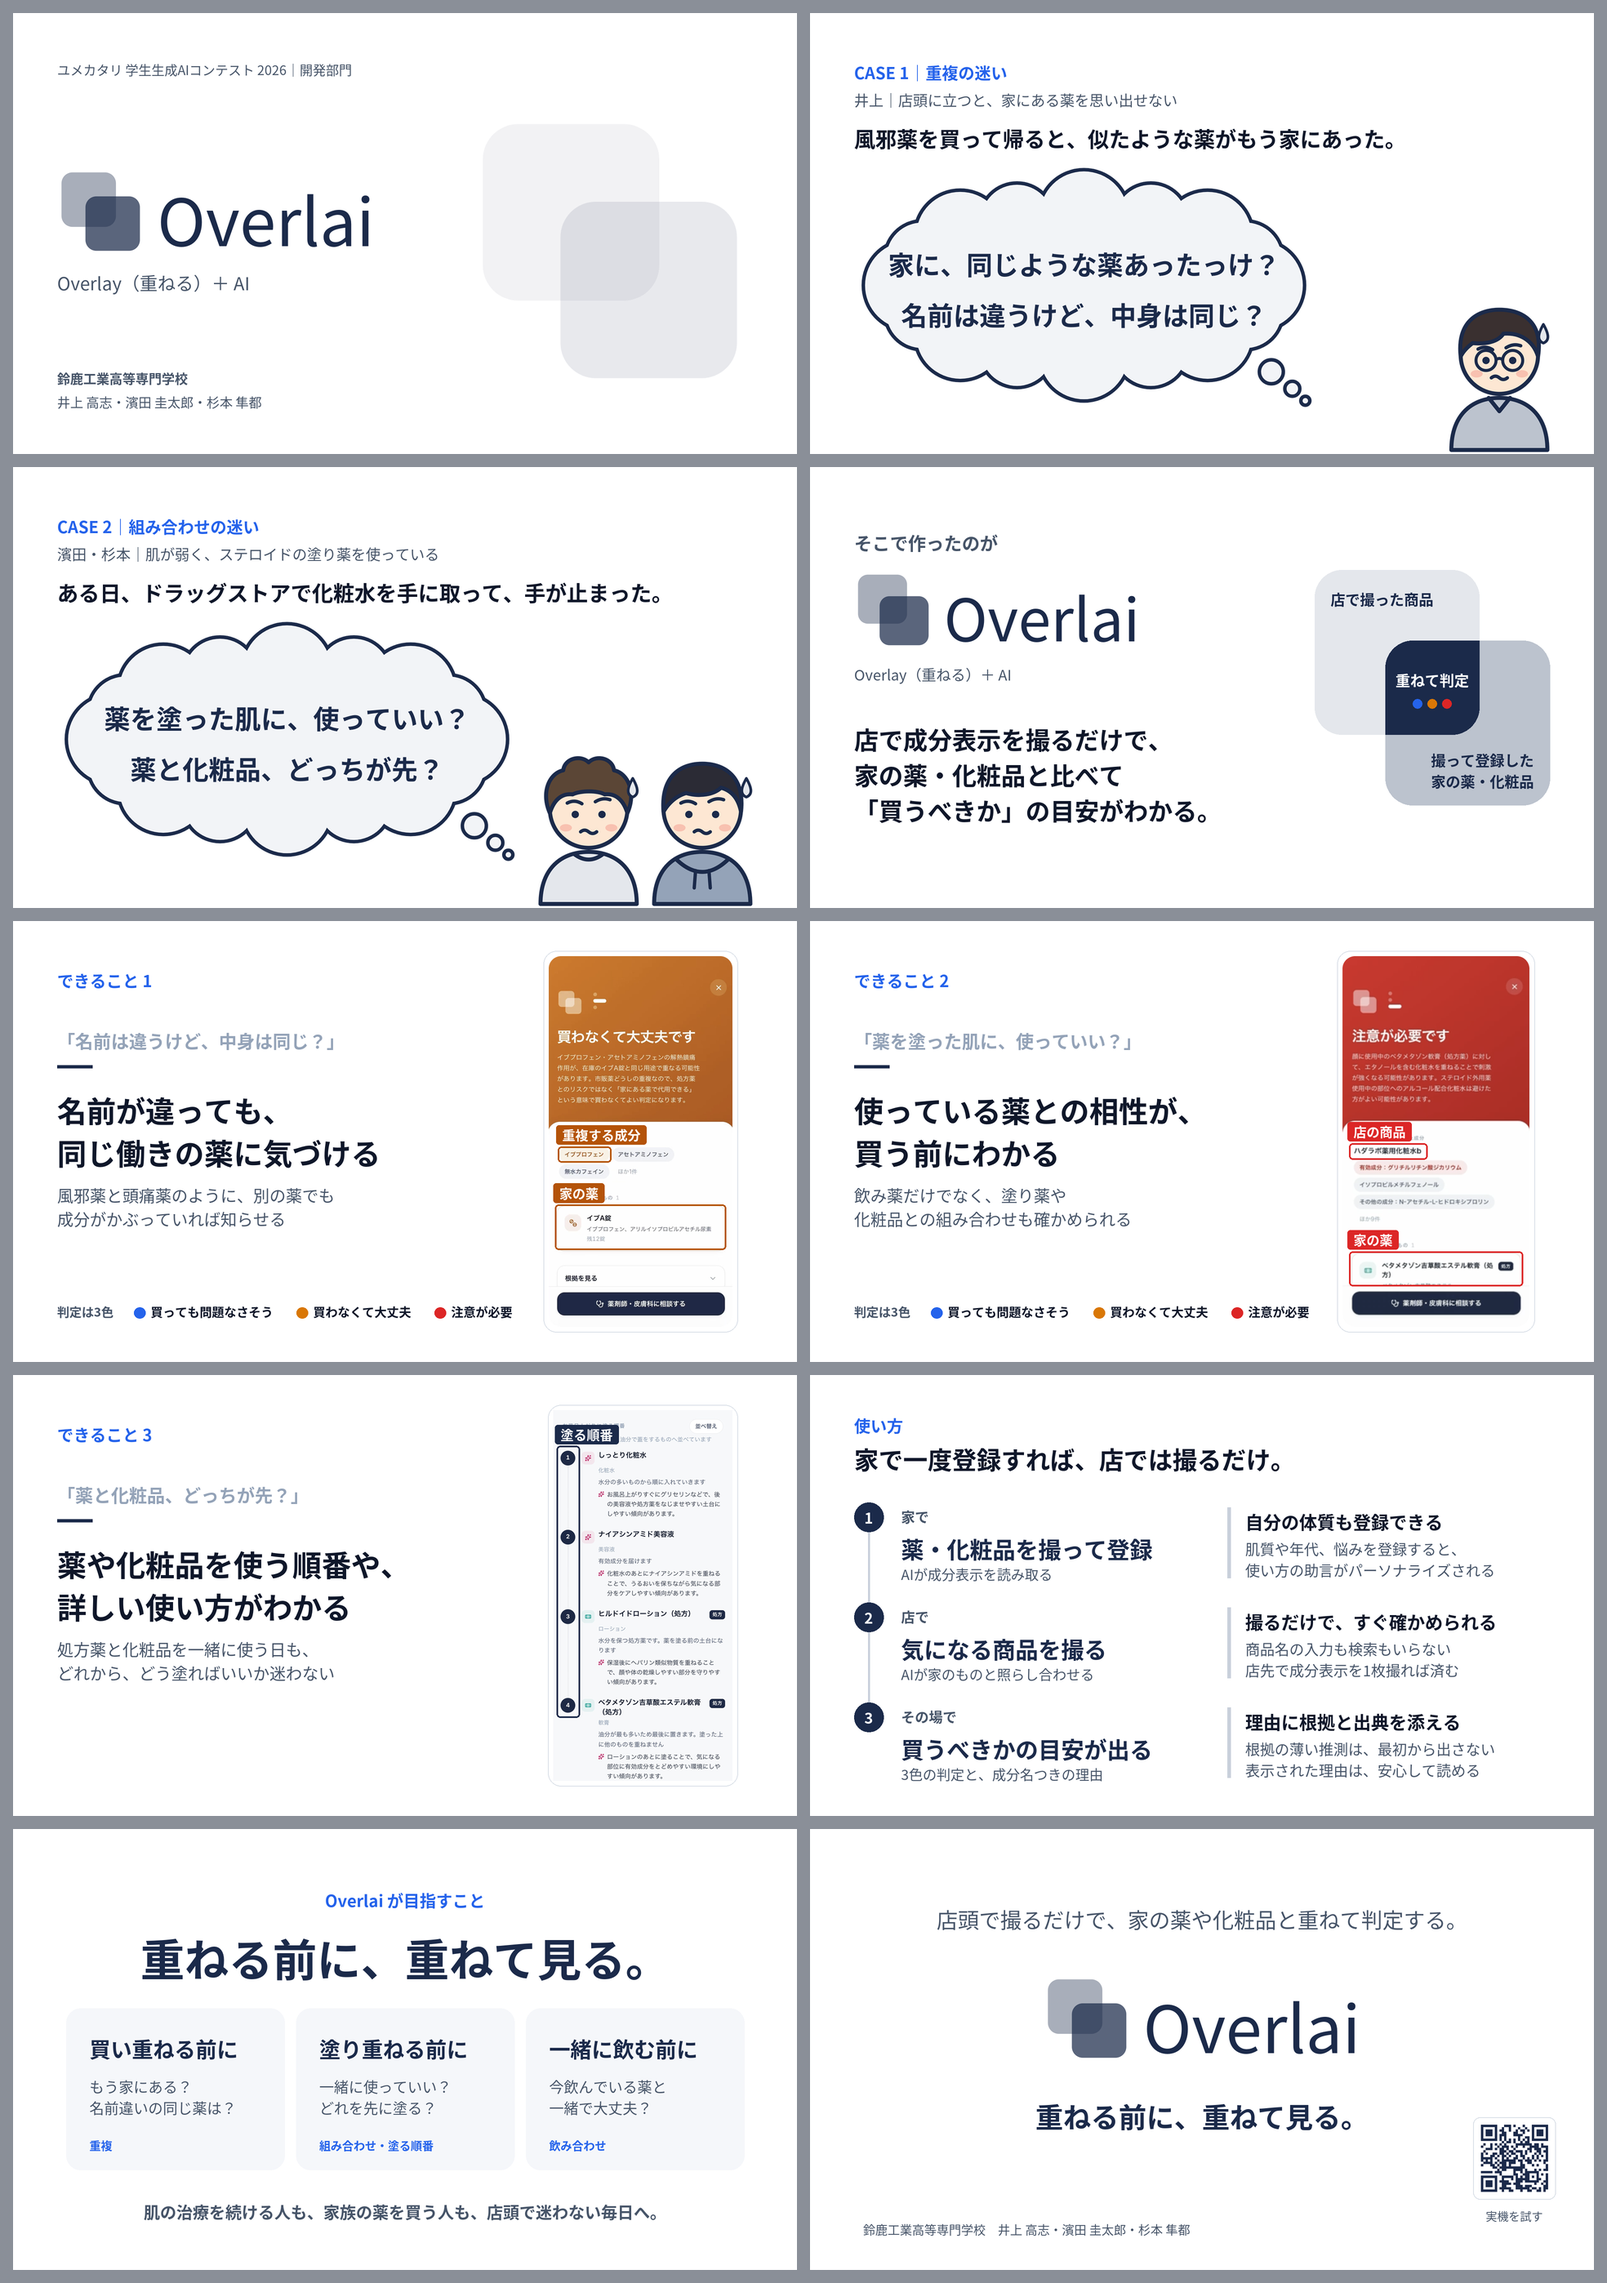
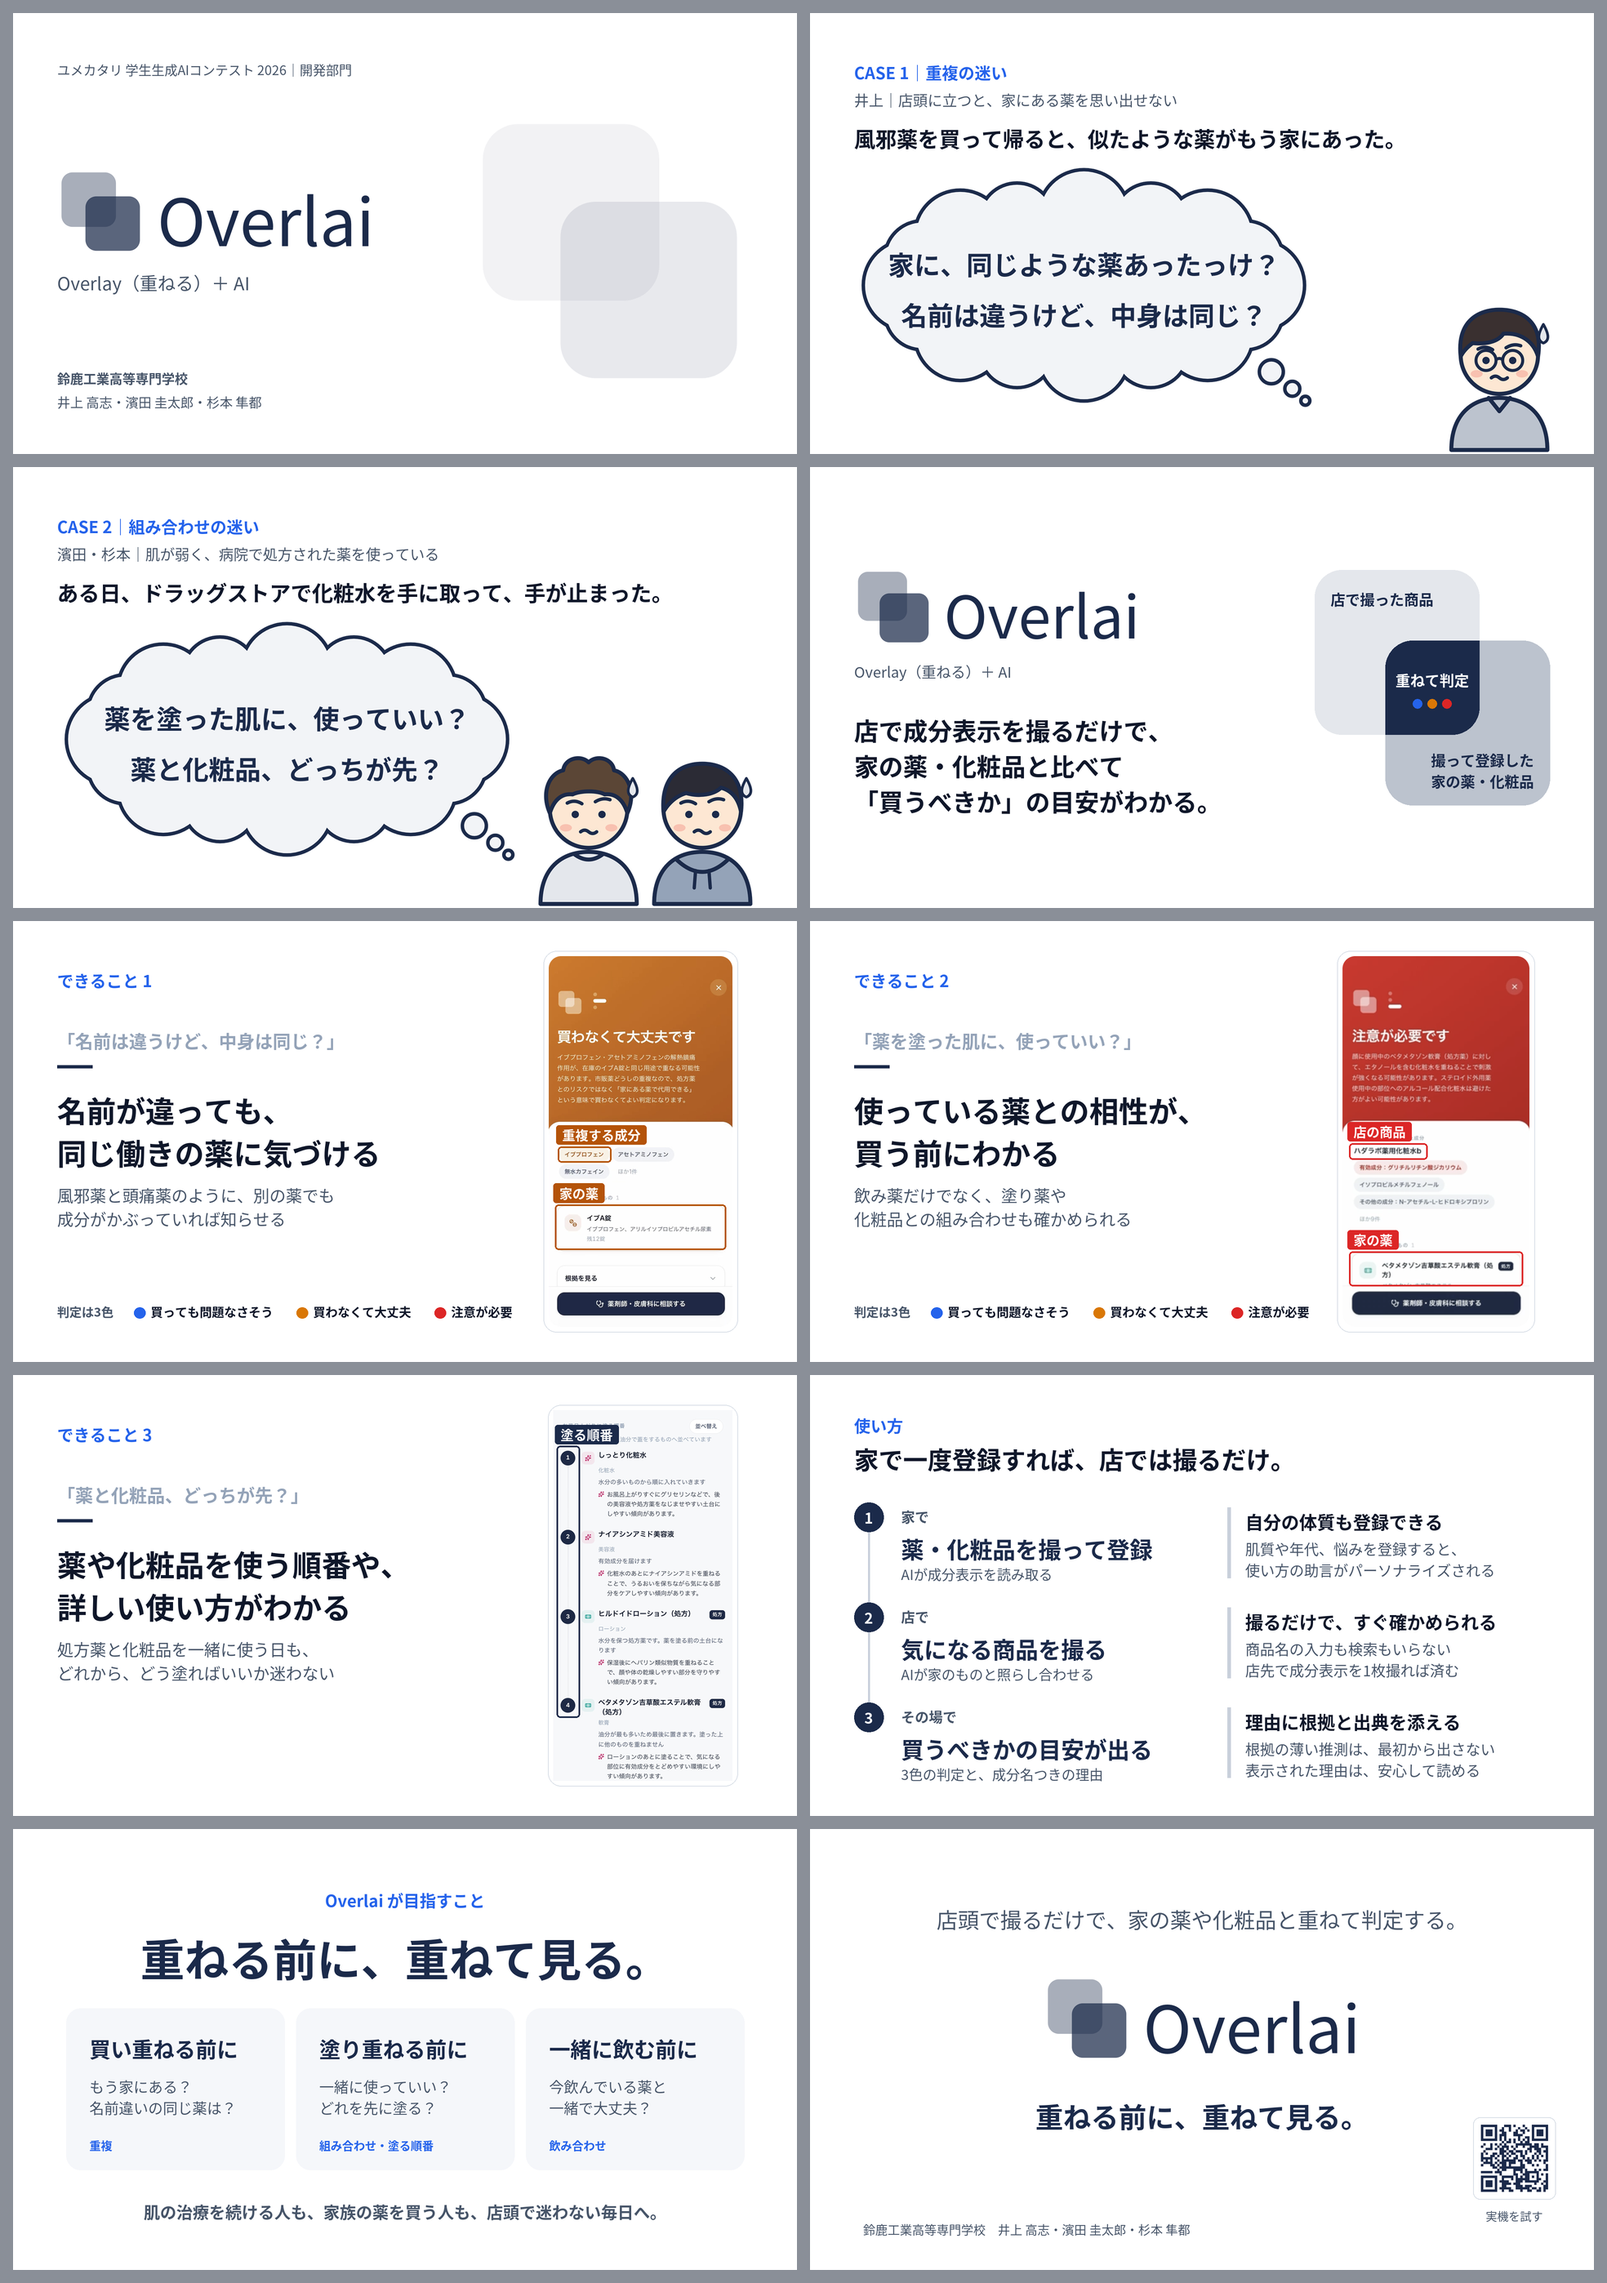
ピッチのCASE 2を「病院で処方された薬」にし、4枚目の「そこで作ったのが」を外す

Changed region(s): [[0.5269, 0.28, 0.7439, 0.3734], [0.5889, 0.2178, 0.6509, 0.28], [0.6819, 0.2489, 0.7129, 0.28]]

diff --git a/docs/ピッチ/build.py b/docs/ピッチ/build.py
@@ -163,10 +163,10 @@ SLIDES.append(dict(notes='井上は、風邪薬を買って帰ったら、似た
 
 # 2. エピソード2：組み合わせ（→ できること2・3）
 SLIDES.append(dict(notes=(
-    '濱田と杉本は、ステロイドの塗り薬を使っています。化粧水を手に取ったとき、'
+    '濱田と杉本は、病院で処方された薬を使っています。化粧水を手に取ったとき、'
     '使っていいのか、どっちが先か、迷いました。'
 ), items=episode(
-    2, '組み合わせの迷い', '濱田・杉本｜肌が弱く、ステロイドの塗り薬を使っている', 'people-2.png',
+    2, '組み合わせの迷い', '濱田・杉本｜肌が弱く、病院で処方された薬を使っている', 'people-2.png',
     'ある日、ドラッグストアで化粧水を手に取って、手が止まった。',
     ['薬を塗った肌に、使っていい？', '薬と化粧品、どっちが先？'],
 )))
@@ -198,10 +198,9 @@ SLIDES.append(dict(notes=(
     'どちらも、店では家の薬と見比べられません。そこで作ったのがOverlaiです。'
     '店で成分表示を撮るだけで、買うべきかの目安がわかります。'
 ), items=[
-    text(X0, 1.0, 6, line_h(22), 'そこで作ったのが', 22, MUTED, bold=True),
-    *brand(X0, 1.6, 72)[0],
-    text(X0, 3.3, 6, line_h(18), 'Overlay（重ねる）＋ AI', 18, MUTED),
-    text(X0, 4.25, 7.6, line_h(30, 1.0, 3), '店で成分表示を撮るだけで、\n家の薬・化粧品と比べて\n「買うべきか」の目安がわかる。', 30, INK, bold=True),
+    *brand(X0, 1.55, 72)[0],
+    text(X0, 3.25, 6, line_h(18), 'Overlay（重ねる）＋ AI', 18, MUTED),
+    text(X0, 4.1, 7.6, line_h(30, 1.0, 3), '店で成分表示を撮るだけで、\n家の薬・化粧品と比べて\n「買うべきか」の目安がわかる。', 30, INK, bold=True),
     *venn(X1 - 4.0, 1.75, 4.0),
 ]))
 
